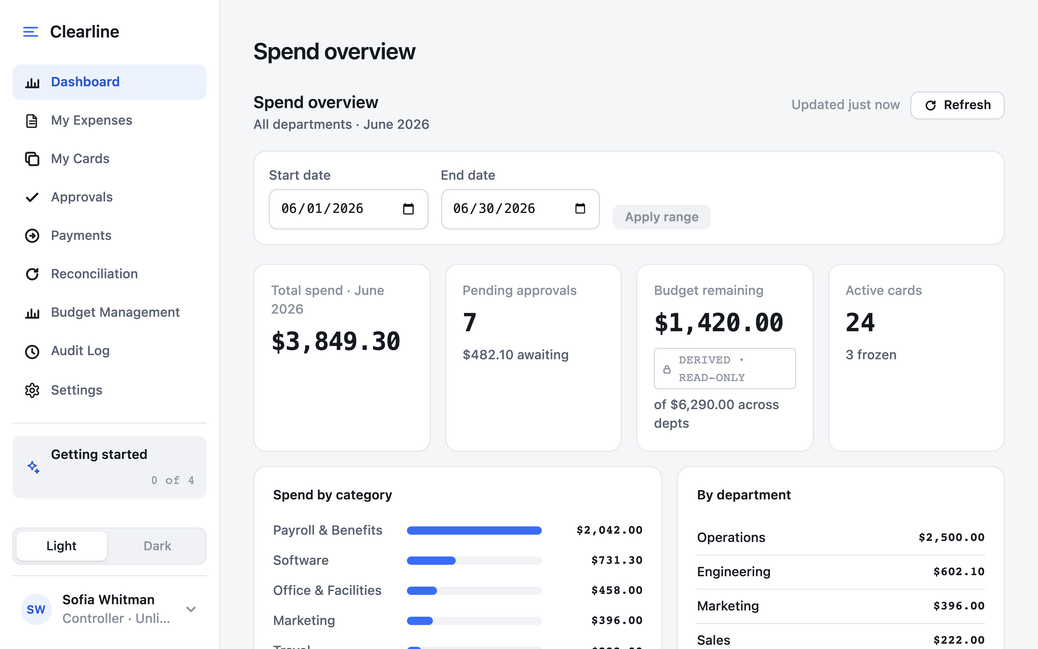
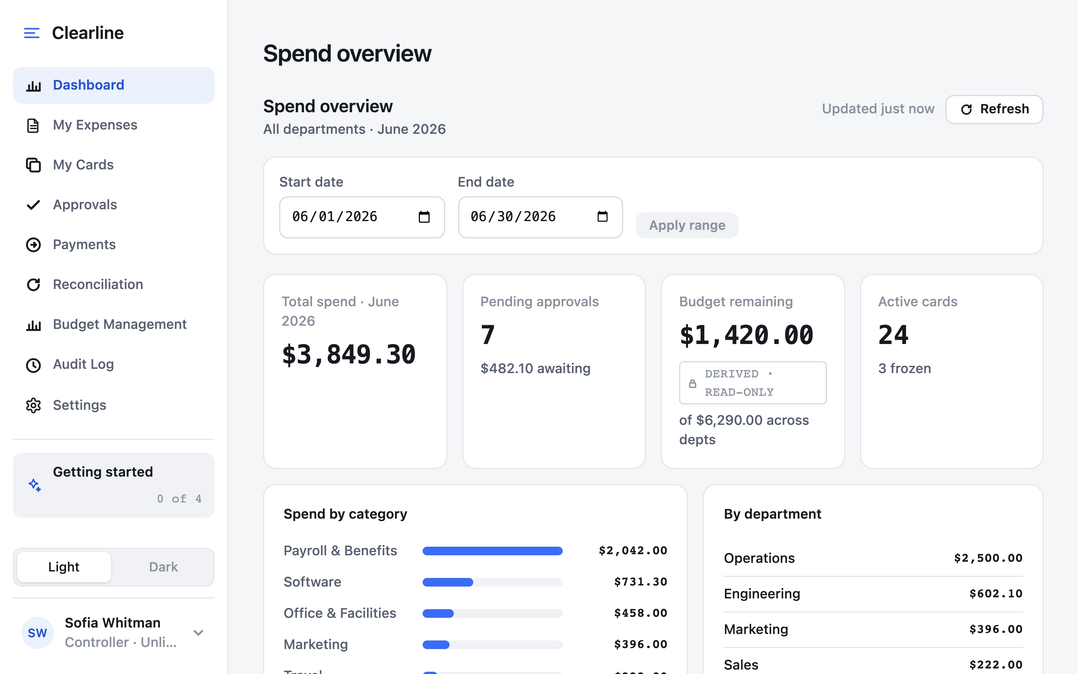
docs: make the hero screenshot as wide as the stats row
The hero was capped at 1040px while the content column and the stats row below it are 1080px.
Remove the cap and re-export the hero at the new 1078px display width (2156px at 2x, 3234px at
3x) so it stays pixel-exact rather than being stretched a few percent.

diff --git a/apps/clearline-landing/index.html b/apps/clearline-landing/index.html
@@ -403,7 +403,6 @@
       }
       figure.hero-shot {
         margin-top: 44px;
-        max-width: 1040px;
       }
       .grid.wide {
         grid-template-columns: repeat(auto-fit, minmax(min(100%, 440px), 1fr));
@@ -908,7 +907,7 @@
           <figure class="shot hero-shot">
               <a class="shot-link" data-lightbox href="img/dashboard-full-2x.webp" data-srcset="img/dashboard-full-1x.webp 1x, img/dashboard-full-2x.webp 2x, img/dashboard-full-3x.webp 3x" target="_blank" rel="noopener" aria-label="Enlarge screenshot: Clearline spend dashboard: total spend, pending approvals, budget remaining, and spend by category and department">
                 <span class="bar" aria-hidden="true"><i></i><i></i><i></i></span>
-                <img src="img/dashboard-1x.webp" srcset="img/dashboard-1x.webp 1x, img/dashboard-2x.webp 2x, img/dashboard-3x.webp 3x" width="1038" height="649" alt="Clearline spend dashboard: total spend, pending approvals, budget remaining, and spend by category and department" fetchpriority="high" />
+                <img src="img/dashboard-1x.webp" srcset="img/dashboard-1x.webp 1x, img/dashboard-2x.webp 2x, img/dashboard-3x.webp 3x" width="1078" height="674" alt="Clearline spend dashboard: total spend, pending approvals, budget remaining, and spend by category and department" fetchpriority="high" />
               </a>
             </figure>
         </div>
